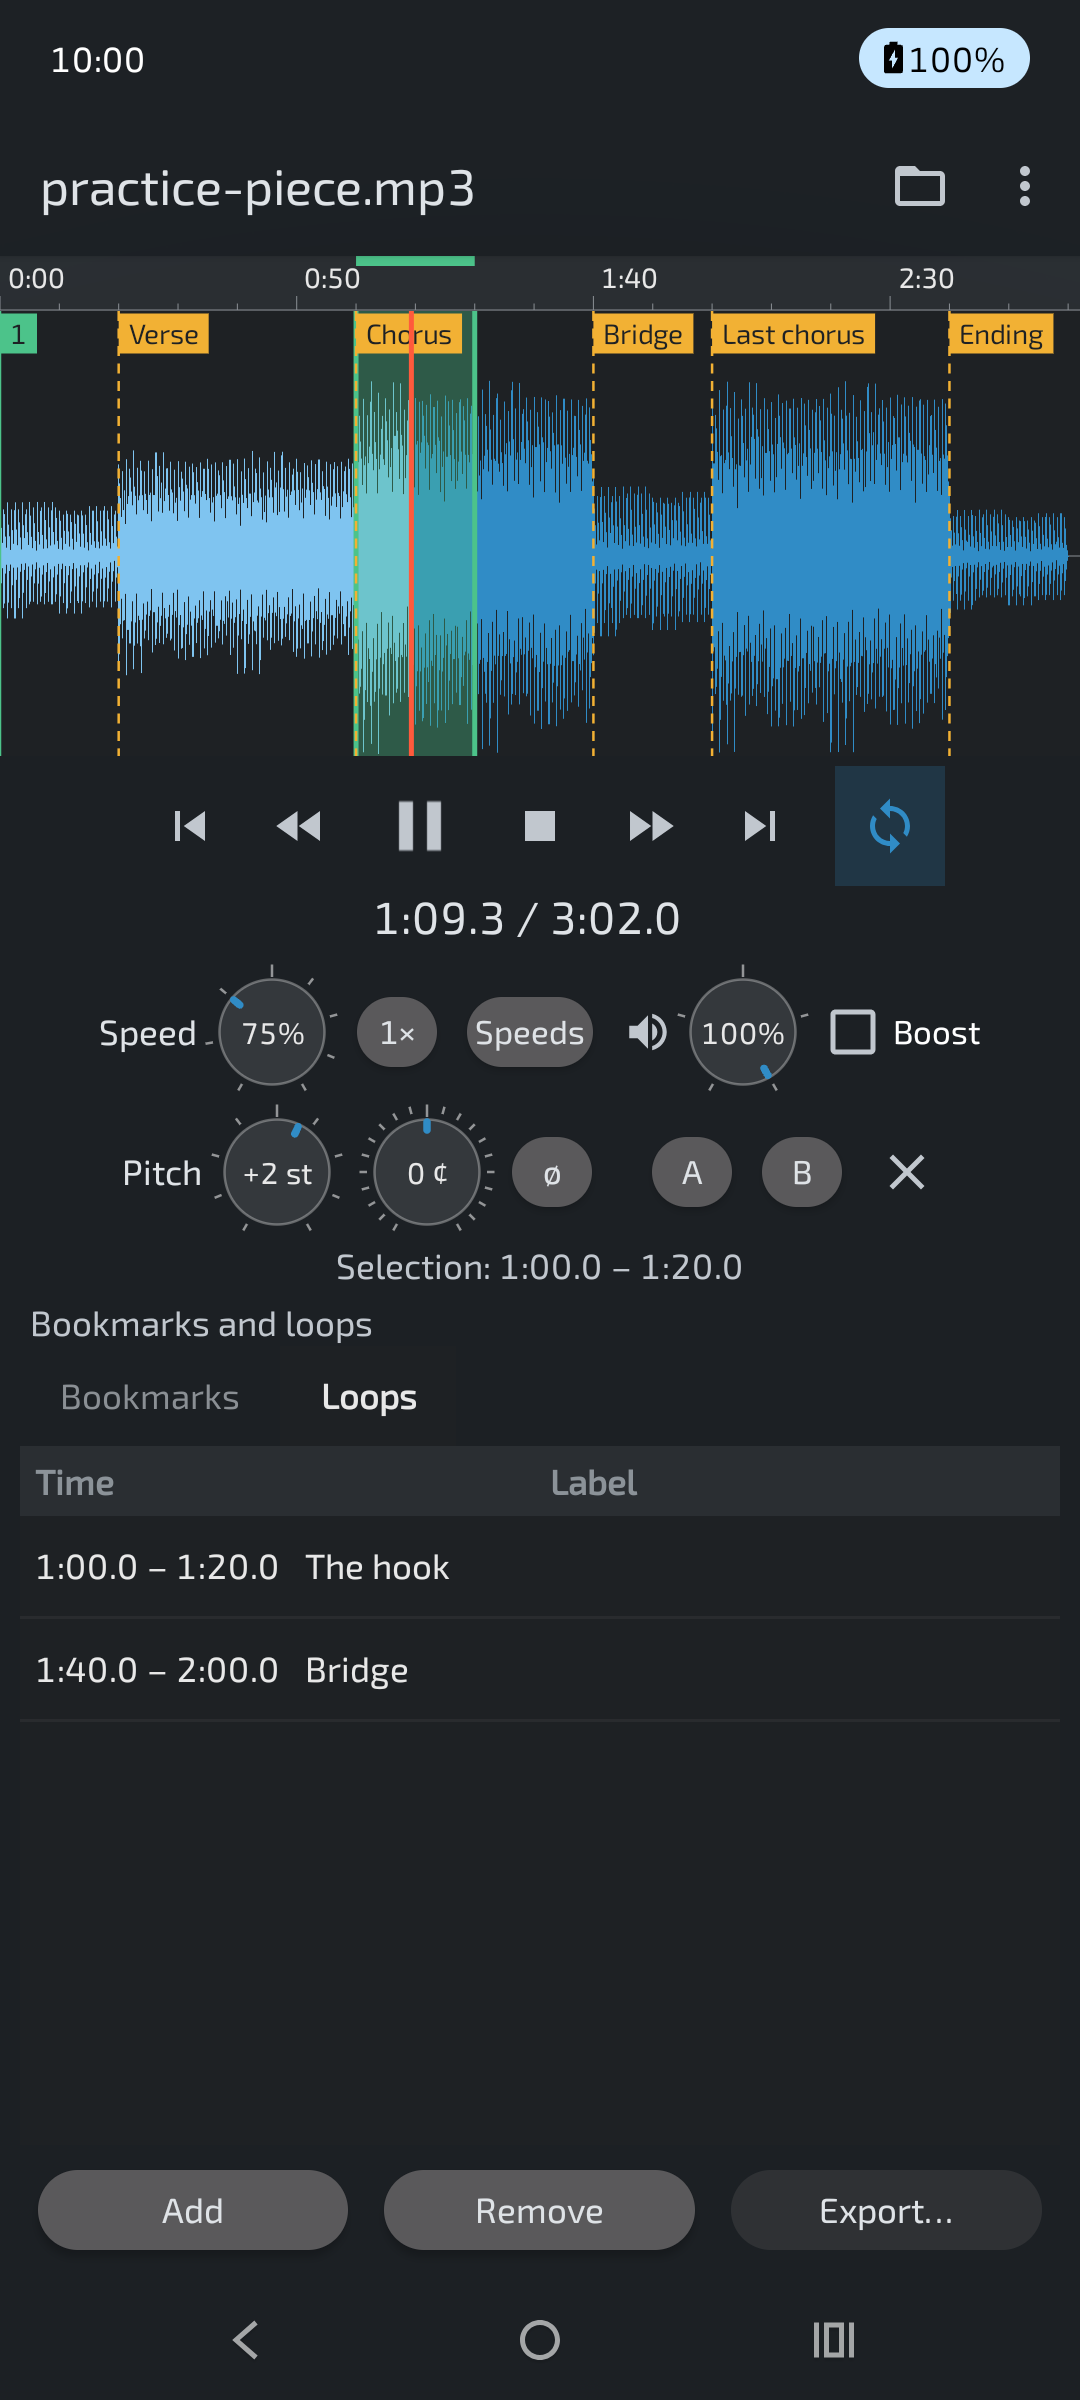
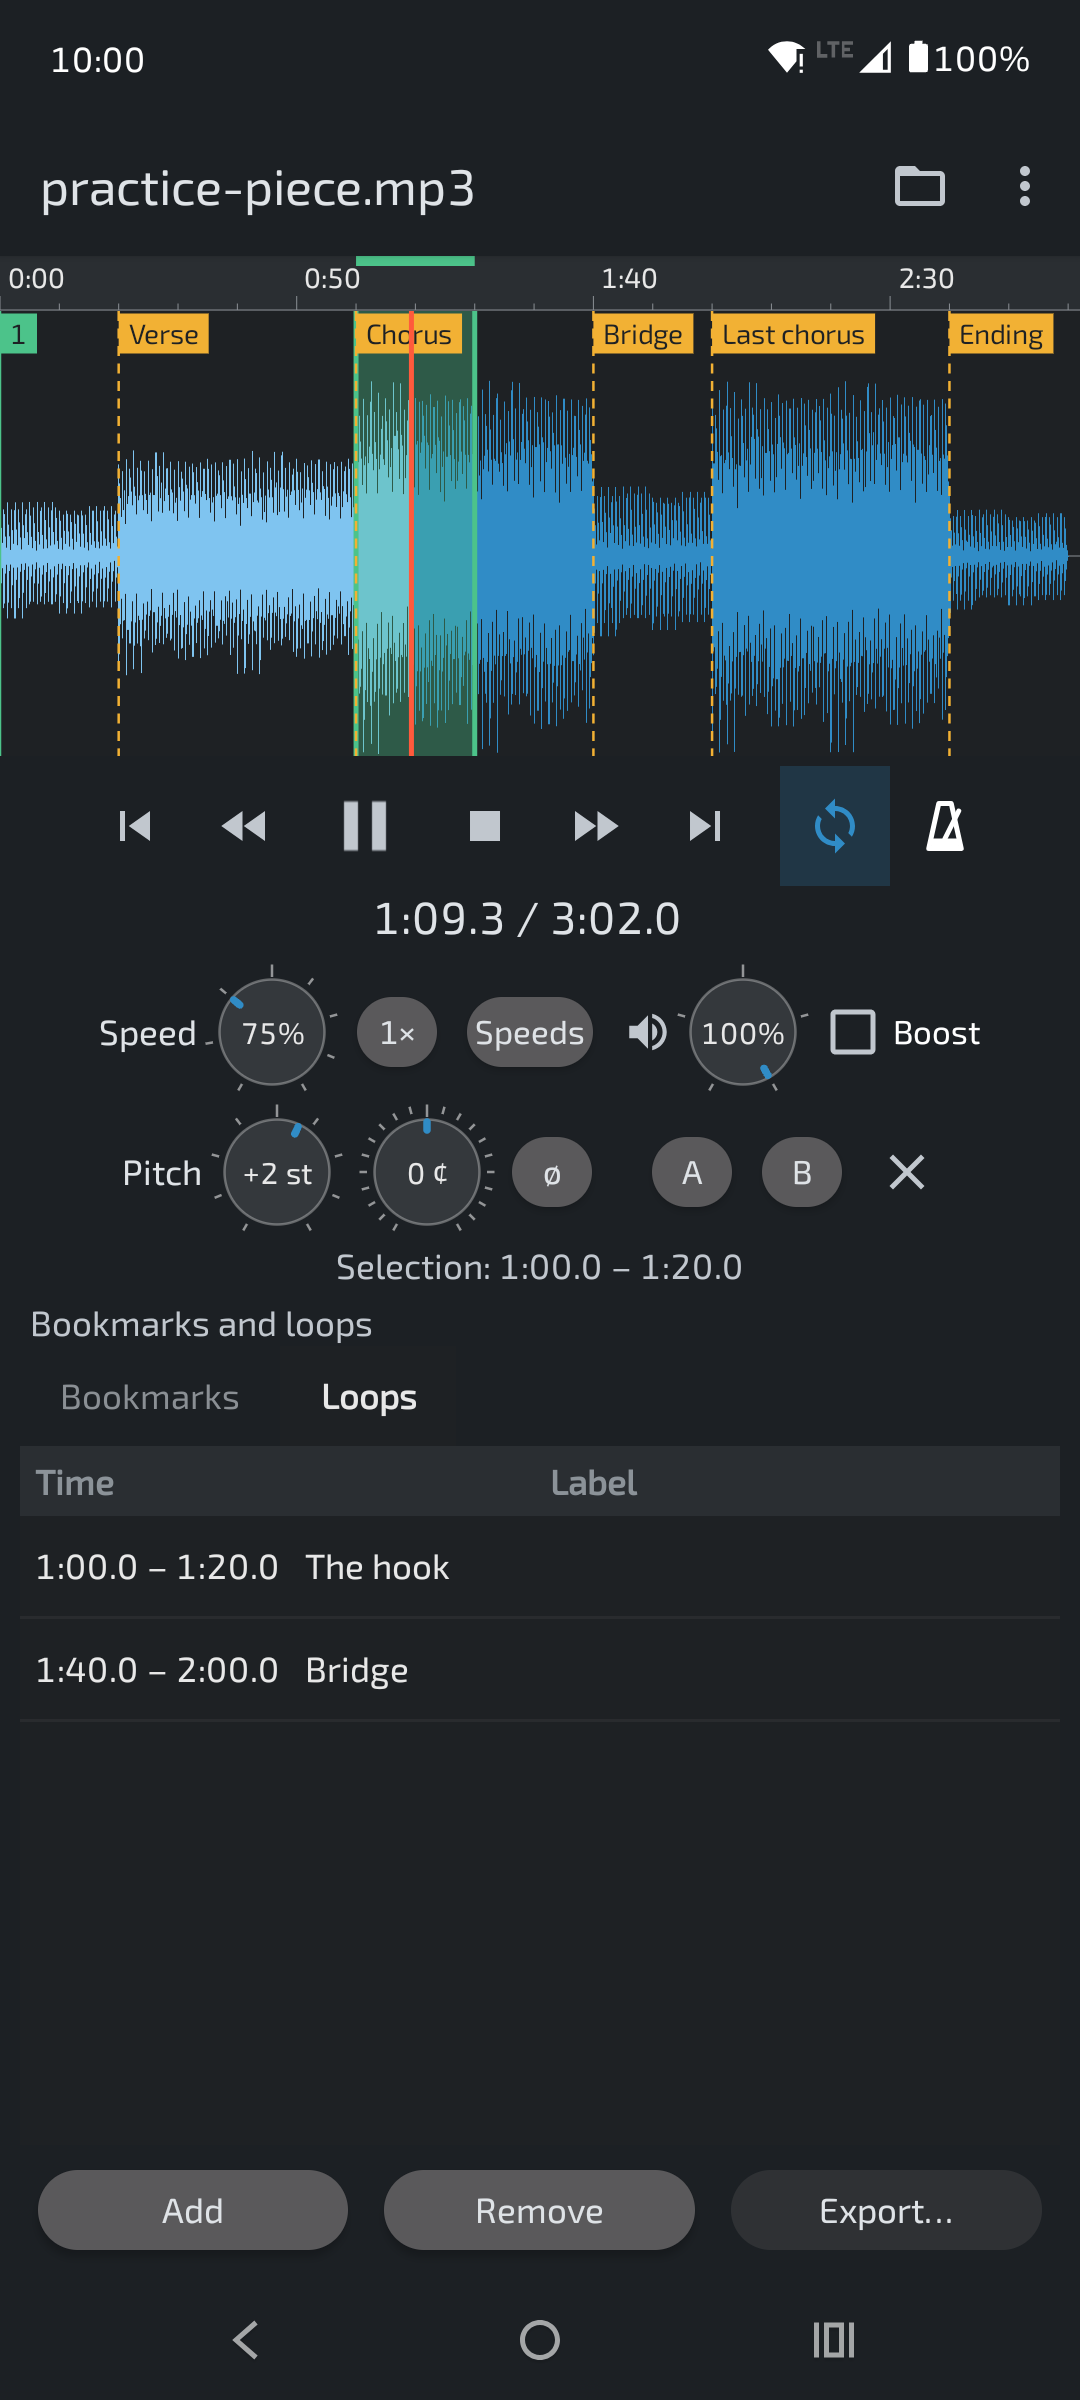
The notes of the Licences screen in the language of the interface; the screenshots taken again, with the metronome and the same status bar in all; the changelogs

diff --git a/app/src/main/kotlin/io/github/nivaca/slowdown/Licenses.kt b/app/src/main/kotlin/io/github/nivaca/slowdown/Licenses.kt
@@ -25,7 +25,7 @@ object Licenses {
             listOf("GPL-3.0-or-later.txt"), "https://github.com/nivaca/slowdown-android"),
         Component("Rubber Band Library", "4.0.0", "© 2007–2024 Particular Programs Ltd.",
             "GPL-2.0-or-later", listOf("GPL-2.0-or-later.txt"), "https://breakfastquay.com/rubberband/"),
-        Component("minimp3", "", "lieff, dedicated to the public domain", "CC0-1.0",
+        Component("minimp3", "", "lieff", "CC0-1.0",
             listOf("CC0-1.0.txt"), "https://github.com/lieff/minimp3"),
         Component("dr_flac", "0.13.4", "© 2023 David Reid", "Unlicense OR MIT-0",
             listOf("Unlicense.txt", "MIT-0.txt"), "https://github.com/mackron/dr_libs"),
@@ -35,7 +35,7 @@ object Licenses {
             "Apache-2.0", listOf("Apache-2.0.txt"), "https://kotlinlang.org"),
         Component("LLVM libc++, libc++abi (Android NDK r29)", "", "The LLVM Project contributors",
             "Apache-2.0 WITH LLVM-exception", listOf("LLVM-libcxx.txt"), "https://libcxx.llvm.org"),
-        Component("Material Icons (the shapes of the buttons)", "", "© Google LLC", "Apache-2.0",
+        Component("Material Icons", "", "© Google LLC", "Apache-2.0",
             listOf("Apache-2.0.txt"), "https://github.com/google/material-design-icons"),
     )
 

diff --git a/app/src/main/kotlin/io/github/nivaca/slowdown/MainActivity.kt b/app/src/main/kotlin/io/github/nivaca/slowdown/MainActivity.kt
@@ -1361,7 +1361,15 @@ class MainActivity : Activity(), WaveformView.Listener {
         val rows = Licenses.components.map { c ->
             val version = if (c.name == "Slowdown") version else c.version
             val title = if (version.isEmpty()) c.name else "${c.name} $version"
-            "$title\n${c.license} · ${c.holder}"
+            // (lo que no es un aviso de derechos, en el idioma de la interfaz)
+            val note = when (c.name) {
+                "minimp3" -> " · " + getString(R.string.lic_public_domain)
+                "Material Icons" -> " (" + getString(R.string.lic_buttons) + ")"
+                else -> ""
+            }
+            val holder = c.holder + if (c.name == "minimp3") note else ""
+            val name = title + if (c.name == "Material Icons") note else ""
+            "$name\n${c.license} · $holder"
         }.toTypedArray()
         val header = TextView(this).apply {
             text = getString(R.string.licenses_intro)

diff --git a/CHANGELOG_es.md b/CHANGELOG_es.md
@@ -39,6 +39,8 @@ Los cambios de Slowdown, la versión para Android de
   codificador de Android). El FLAC, el MP3 y el Opus de py-slowdown todavía
   no están: Android no puede escribir un archivo FLAC, no tiene codificador
   de MP3, y su codificador de Opus solo toma 48 kHz.
+- La pantalla de las licencias, en español, lo dice todo en español (dos
+  notas estaban en inglés); capturas nuevas, con el metrónomo.
 
 ## 1.1 — 2026-11-25
 

diff --git a/CHANGELOG.md b/CHANGELOG.md
@@ -39,6 +39,8 @@ All notable changes to Slowdown, the Android version of
   Android's encoder). py-slowdown's FLAC, MP3 and Opus are not here yet:
   Android cannot write a FLAC file, has no MP3 encoder, and its Opus
   encoder takes only 48 kHz.
+- The Licences screen in Spanish says all it says in Spanish (two notes
+  were in English); new screenshots, with the metronome.
 
 ## 1.1 — 2026-11-25
 
